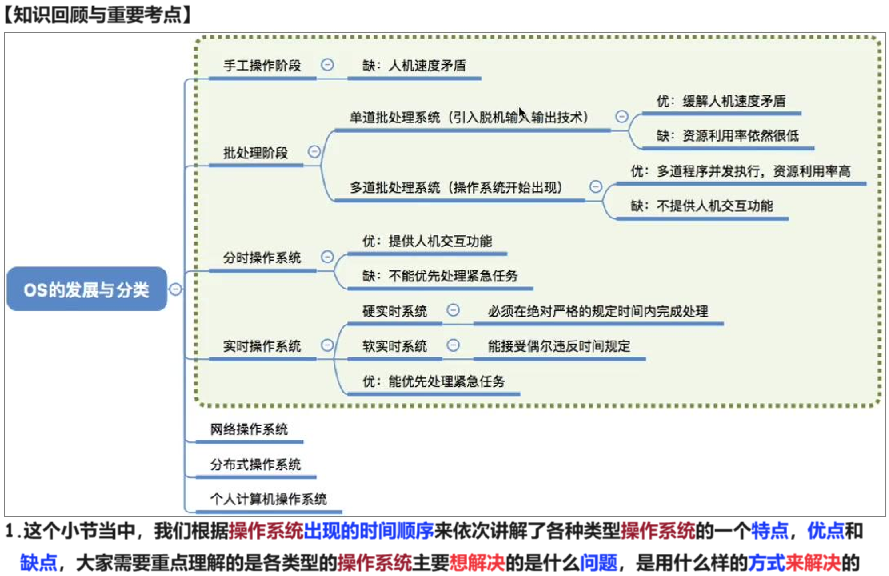
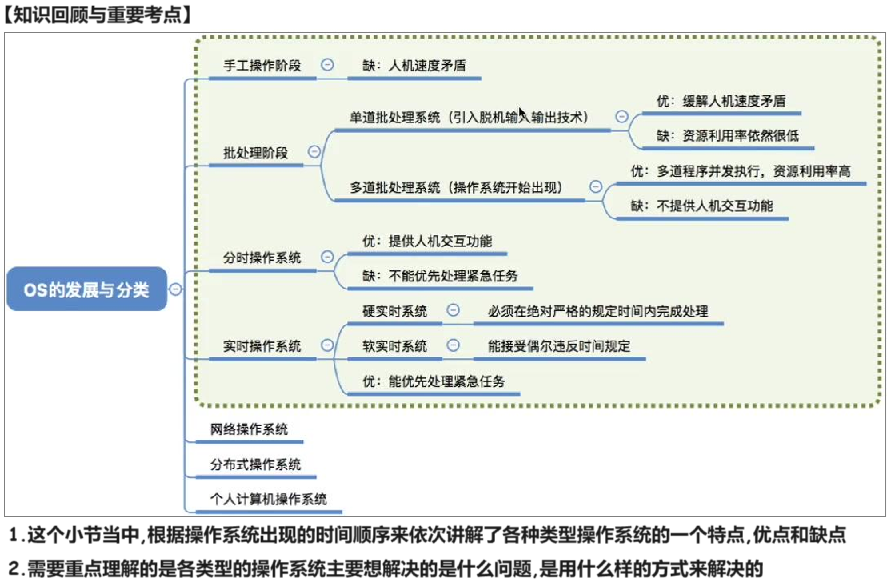
240617

diff --git a/01 初试/01 OS/02 24 25 王道/01 基础/01 计算机系统 概述/02 操作系统 发展 分类 240616/02 消化/02 Doc.md b/01 初试/01 OS/02 24 25 王道/01 基础/01 计算机系统 概述/02 操作系统 发展 分类 240616/02 消化/02 Doc.md
@@ -46,4 +46,4 @@
 
 # 08 知识回顾与重要考点
 
-<img src="https://cvp.oss-cn-shanghai.aliyuncs.com/picgo/202405190910998.png" alt="image-20240519091027863" style="zoom:50%;" />
+<img src="https://cvp.oss-cn-shanghai.aliyuncs.com/picgo/202406171846937.png" alt="image-20240617184654819" style="zoom:50%;" />
